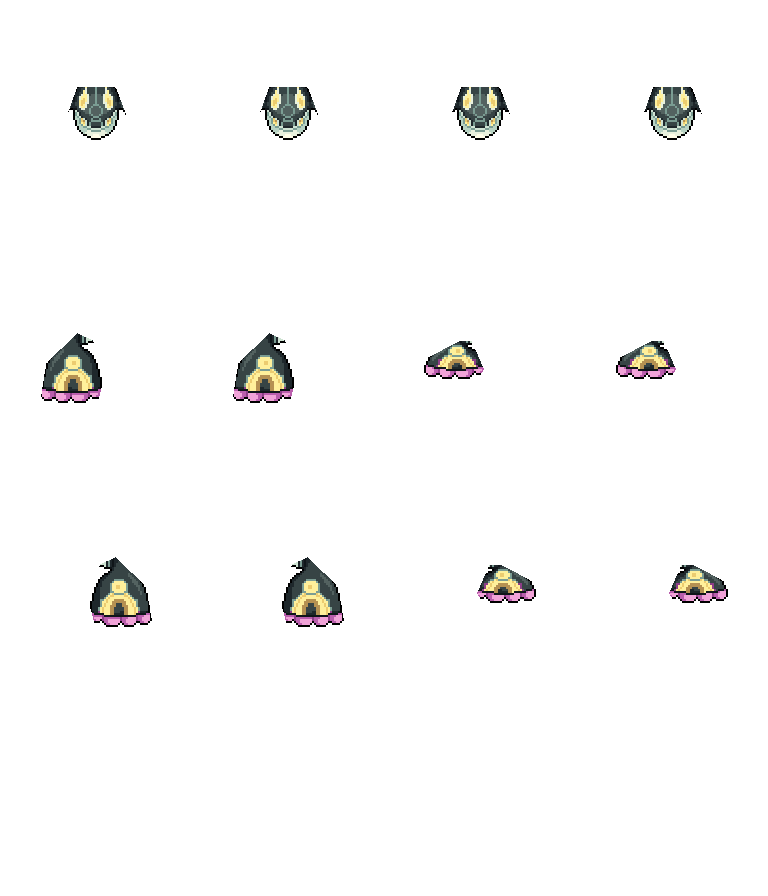
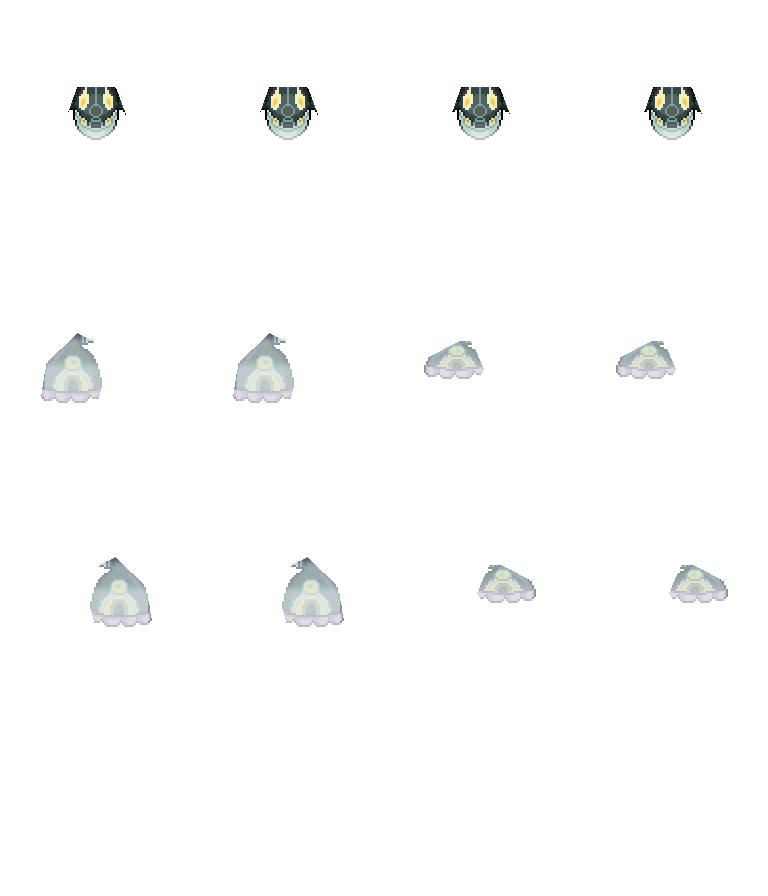
Render Kyogre Surf mounts with submerged fins and synchronized water contact

diff --git a/tools/primal_kyogre_water_contact.py b/tools/primal_kyogre_water_contact.py
@@ -1,0 +1,76 @@
+"""Approved Kyogre water-contact palette/depth and pixel foam, at native scale."""
+import math
+from PIL import Image, ImageDraw
+
+FRAME = (192, 224)
+
+def clamp(x):return max(0,min(1,x))
+def underwater(x,y,row,phase):
+    # Per-anatomy submersion: top-down fins lie in water even when the source
+    # pose swings them up-screen. Body/rider positions never change.
+    if row==0:
+        fin=clamp((abs(x-96)-25)/24)*.74 if y>=65 else 0
+        belly=clamp((y-120)/16)*.95 if 70<=x<=121 else 0
+        tail=.62 if 60<=x<=137 and y<72 else 0
+        return max(fin,belly,tail)
+    if row==3:
+        fin=clamp((abs(x-96)-23)/24)*.74
+        tail=clamp((y-102)/25)*.88
+        return max(fin,tail)
+    u=x if row==1 else 192-x
+    fin=clamp((y-110)/34)*.96 if 45<=u<=119 else 0
+    # Far flipper: behind the body, lightly submerged in both source poses.
+    far=.61*clamp(((84 if phase<2 else 76)-y)/12) if 52<=u<=111 else 0
+    tail=.67*clamp((u-116)/18)
+    belly=clamp((y-103)/15)*.72 if u<126 else 0
+    return max(fin,far,tail,belly)
+
+def immerse(im,row,phase):
+    out=im.copy();px=out.load()
+    for y in range(im.height):
+        for x in range(im.width):
+            r,g,b,a=px[x,y]
+            if not a:continue
+            depth=underwater(x,y,row,phase)
+            mix=.45*depth
+            px[x,y]=(round(r*(1-mix)+34*mix),round(g*(1-mix)+104*mix),round(b*(1-mix)+127*mix),round(a*(1-.72*depth)))
+    return out
+
+def foam(row,t,moving):
+    # Broken contact strokes follow the hull; no detached oval beneath it.
+    out=Image.new('RGBA',FRAME);d=ImageDraw.Draw(out)
+    bright=(188,228,227,220);mid=(108,184,199,195);dim=(74,141,164,135)
+    shift=round(math.sin(t*math.tau)*1)
+    if row==0:
+        lines=[[(75,125),(80,130),(88,134),(97,136),(106,134),(115,129)]]
+    elif row==3:
+        lines=[[(71,88),(75,91),(79,92)],[(115,92),(120,90),(123,87)]]
+    else:
+        lines=[[(29,100),(32,105),(38,109),(46,113),(54,114)],[(66,113),(72,112),(79,113)],[(97,114),(106,115),(114,112),(123,108)]]
+        if row==2:lines=[[(192-x,y) for x,y in line] for line in lines]
+    for li,line in enumerate(lines):
+        pts=[(x,y+(shift if li else 0)) for x,y in line]
+        d.line(pts,fill=mid,width=2 if li==0 else 1)
+        for k,(x,y) in enumerate(pts):
+            if (k+int(t*8))%3!=0:d.line((x,y,x+2,y),fill=bright,width=1)
+    if moving:
+        phase=t%1
+        for j in range(3):
+            age=(phase+j/3)%1;length=5+round(age*8);spread=round(age*8);alpha=round((1-age)*145)
+            color=(111,190,203,alpha)
+            if row==0:
+                y=31-round(age*20)
+                d.line((84-spread,y,84-spread+length,y+1),fill=color)
+                d.line((108+spread-length,y,108+spread,y+1),fill=color)
+            elif row==3:
+                y=145+round(age*25)
+                d.line((87-spread,y,87-spread+length,y+1),fill=color)
+                d.line((105+spread-length,y,105+spread,y+1),fill=color)
+            else:
+                x=171+round(age*15);y=102
+                if row==2:x=192-x
+                bend=3 if row==1 else -3
+                d.line([(x-bend,y-9-spread),(x,y-6-spread),(x,y-3-spread)],fill=color)
+                d.line([(x-bend,y+9+spread),(x,y+6+spread),(x,y+3+spread)],fill=color)
+    return out
+

diff --git a/tools/build_primal_kyogre_mount.py b/tools/build_primal_kyogre_mount.py
@@ -1,7 +1,8 @@
 """Pack the approved v3 Primal Kyogre surf art without resampling its pixels."""
 from pathlib import Path
 import json
-from PIL import Image, ImageDraw
+from PIL import Image, ImageDraw, ImageChops
+from primal_kyogre_water_contact import immerse, foam
 from import_player_layered_sprites import write_texture_import
 
 ROOT = Path(__file__).resolve().parents[1]
@@ -31,6 +32,7 @@ def definition(shiny=False):
             'spriteSheet':f'res://assets/mounts/{folder}/mount.png',
             'riderMaskSheet':f'res://assets/mounts/{folder}/rider_mask.png',
             'foregroundSheet':f'res://assets/mounts/{folder}/foreground.png',
+            'waterContactSheet':'res://assets/mounts/primal_kyogre/water_contact.png',
             'frameSize':list(FRAME), 'movementAnimationSpeed':7.5,
             'storePreviewScale':1.0, 'storePreviewOffset':[0,-16],
             'surfFishingFullForeground':False,
@@ -105,6 +107,11 @@ def build_variant(source, folder):
             fg.alpha_composite(foreground(art,row,col),SHIFTS[row][col])
             mask = Image.new('RGBA',FRAME)
             mask.putalpha(fg.getchannel('A'))
+            # Keep the opaque anatomical mask: submerged fins must not reveal
+            # previously hidden player pixels. Draw translucent foreground once.
+            wet = immerse(base,row,col)
+            wet.putalpha(ImageChops.subtract(wet.getchannel('A'),fg.getchannel('A')))
+            base, fg = wet, immerse(fg,row,col)
             for key,tile in [('mount',base),('foreground',fg),('rider_mask',mask)]:
                 sheets[key].alpha_composite(tile,(col*FRAME[0],row*FRAME[1]))
     for key,sheet in sheets.items():
@@ -114,7 +121,7 @@ def build_variant(source, folder):
     icon.crop(icon.getbbox()).save(folder/'icon.png')
     for name in ['source','mount','foreground','rider_mask','icon']:
         write_texture_import(ROOT,(folder/f'{name}.png').relative_to(ROOT))
-    print(f'{folder.name}: preserved source art, approved seats, aligned waterline.')
+    print(f'{folder.name}: water contact, unchanged seats and opaque rider mask.')
 
 
 def build():
@@ -123,6 +130,13 @@ def build():
     shiny_folder = FOLDER.with_name('primal_kyogre_shiny')
     shiny_folder.mkdir(parents=True, exist_ok=True)
     shiny.save(shiny_folder/'source.png')
+    contact = Image.new('RGBA',(FRAME[0]*4,FRAME[1]*8))
+    for moving in (False,True):
+        for row in range(4):
+            for col in range(4):
+                contact.alpha_composite(foam(row,col/4,moving),(col*FRAME[0],(row+4*int(moving))*FRAME[1]))
+    contact.save(FOLDER/'water_contact.png')
+    write_texture_import(ROOT,(FOLDER/'water_contact.png').relative_to(ROOT))
     catalog = json.loads((ROOT/'data/mounts.json').read_text())['mounts']
     for is_shiny, art, folder in [(False,source,FOLDER),(True,shiny,shiny_folder)]:
         build_variant(art,folder)

diff --git a/assets/mounts/primal_kyogre/README.md b/assets/mounts/primal_kyogre/README.md
@@ -1,35 +1,46 @@
 # Primal Kyogre Surf mount
 
-Based on the approved v3 preview. `source.png` contains the supplied four-direction
-art. The 4x4 runtime sheets use 192x224 frames; all source pixels and the original
-64x64 seated player poses retain their size. Padding anchors the front waterline
-at world Y +12, matching Lapras with the existing player Look offset.
+Normal and shiny Kyogre use the approved water-contact treatment: the underside,
+flippers and tail fade into the map water, with contact foam and a directional
+wake while swimming. Native source scale, world anchors, seat offsets and
+opaque rider masks are retained from the approved V4 rig.
 
-The rider stays above the forehead in front. Side views anchor the hull to the
-occupied water tile, rather than using the lower fin tip as the waterline. The
-whole side-facing rig sits 32px lower than the initial integration. Packing
-compensates the source torso's 18px shift between swimming poses, keeping the
-hull and seat steady while the fins move. The mask exactly follows the foreground's alpha:
-only the head and nearby fin can cover the player. Tail and far fin stay behind.
-Both player models and clothing layers use the normal shared avatar renderer.
+`source.png` remains the unmodified supplied art. Rebuild both color variants
+with `python3 tools/build_primal_kyogre_mount.py`. The water depth/palette and
+pixel foam are in `tools/primal_kyogre_water_contact.py`. Normal and shiny share
+the generated `water_contact.png` sheet: four directions of idle contact on top,
+four directions of moving contact/wake below, four 192×224 cells per row.
 
-The Surf-fishing pose has its own seat adjustments and uses the same anatomical
-foreground, instead of drawing the full creature over the fishing player.
+Only the mount colors/alpha change. The underwater foreground is removed from
+the base atlas so it is drawn once; the original opaque rider mask remains
+separate, keeping player anatomy from showing through a translucent fin.
+Source art, inventory icons, seat offsets and Surf-fishing offsets are unchanged.
 
-Rebuild with `python tools/build_primal_kyogre_mount.py` (Pillow required).
-Render both player models and all swimming/fishing directions with:
+`MountWaterContact` is a cached AnimatedSprite2D child of the existing foreground.
+Local and remote avatars synchronize its direction and frame with the mount;
+there is no independent animation clock. Idle and fishing have contact foam
+without a wake. The effect shares the actor world depth and is excluded from
+player appearance parts. Dismounting or selecting another mount clears it.
+Kyogre uses this contact/wake instead of generic circular Surf-step ripples;
+Lapras's ripples and all fishing splashes keep their existing behavior.
+
+World alignment still anchors the side hull rather than the downward fin tip,
+compensating the original source pose's 18px torso shift. This keeps the rider
+steady and the actor origin unchanged for NPC interaction and depth sorting.
+
+Runtime captures (both player models, idle/swimming/fishing, all directions):
 
 ```
 ops/worktrees/slot-env SLOT -- godot --path .worktrees/SLOT/frontend \
   --rendering-method gl_compatibility \
-  --script res://tools/preview_primal_kyogre_mount.gd -- --output=/absolute/output
+  --script res://tools/preview_primal_kyogre_mount.gd -- \
+  --water --output=/absolute/output
 ```
 
-Grant `primal-kyogre-mount` through the existing administration reward controls.
-It permanently unlocks Primal Kyogre in the Surf selector. Existing Surf access
-requirements still apply; a saved selection without the item falls back to Lapras.
-The item is not consumable or tradeable. The Gift Store Surf tab sells the
-Primal Kyogre Mount Box for 1,000 Gems, with the existing 50–80% mount-box pity.
-The shiny assets in `../primal_kyogre_shiny` reuse the exact same alpha, rider
-mask and positioning; the builder recolours the source using the existing
-Shiny Primal Kyogre reference (charcoal, pale gold and rose fin tips).
+Add `--shiny` for the shiny variant. The capture restores a fixed 2× magnification
+after Store auto-fit; `--water` uses a tile from the game water texture. It is a
+runtime render study, not a networked live-map session.
+
+Focused checks: `kyogre_water_contact_check`, `primal_kyogre_surf_check`,
+`surf_mount_render_check`, `mount_world_depth_check`, `mount_nameplate_check`,
+and `store_mount_preview_fit_check`.

diff --git a/CHANGELOG.md b/CHANGELOG.md
@@ -2,6 +2,8 @@
 
 ## Unreleased
 
+- Give normal and shiny Primal Kyogre submerged fins/tail, hull foam and a swimming wake while preserving rider poses, fishing and map depth.
+
 - Organize Bag mounts into All, Land, Surf and Mount Boxes tabs, with tradeability filters, alphabetic ordering and Land/Surf box labels. Your chosen mount tab is remembered.
 
 - Add an information button beside Gift Store balances explaining Gems, personal card credit, top-up vouchers and account binding.
